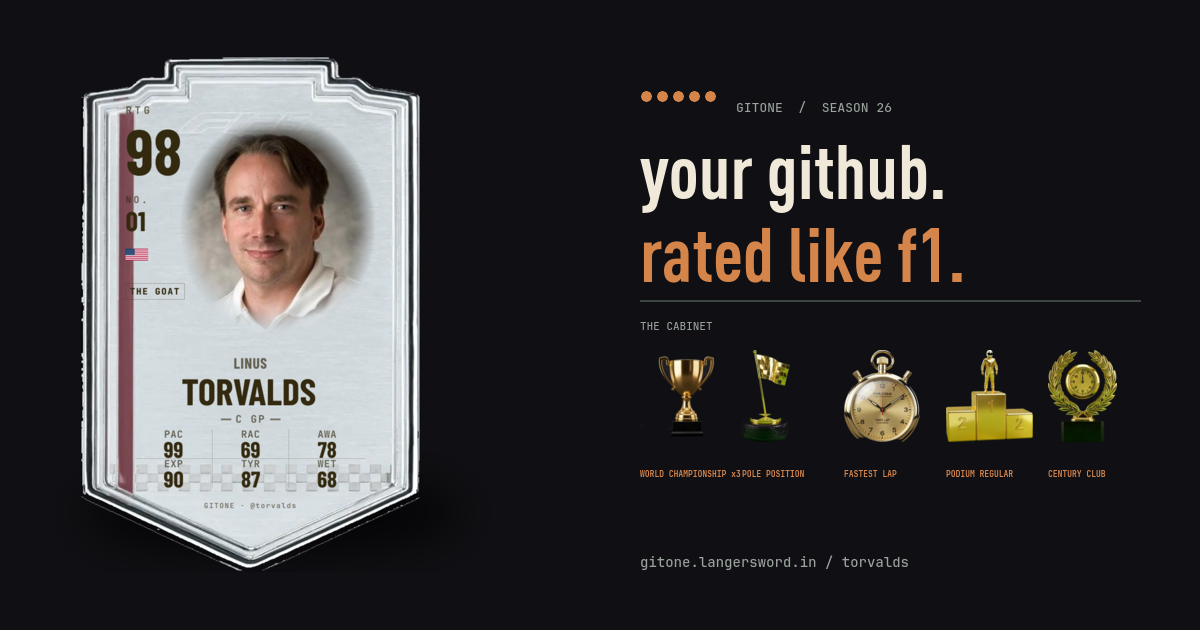
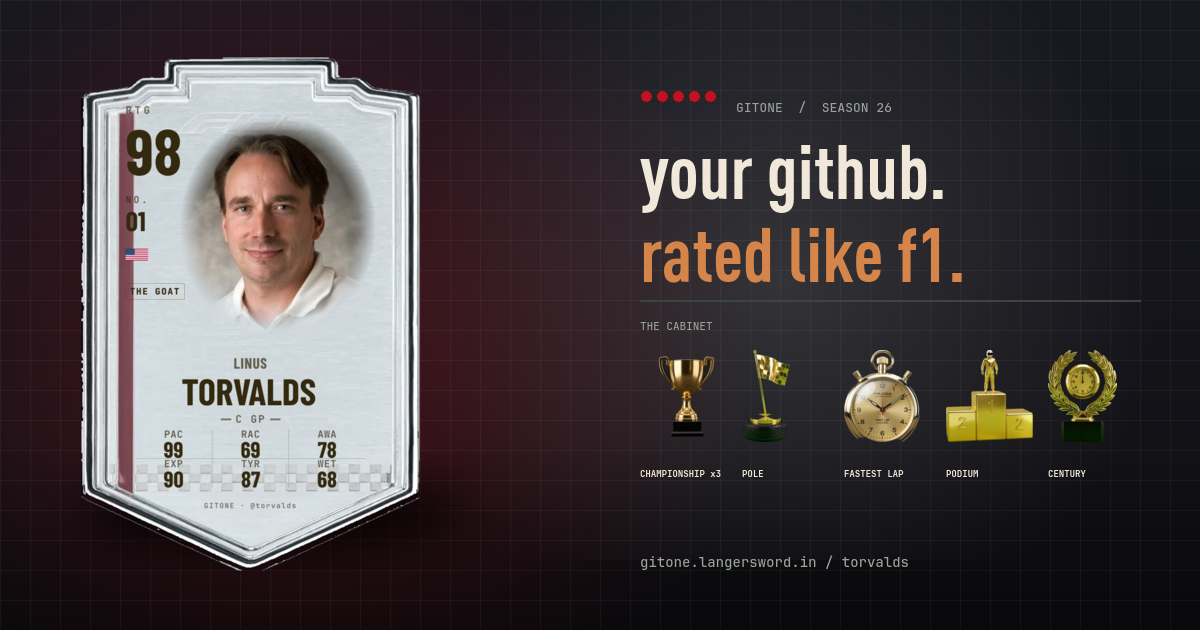
polish(preview): subtler tilt, race cues, landing field, telemetry contrast
Reduce teaser tilt, remove the red dot row over the VS, add track-curb accents and a checkered strip. Root unfurl uses the landing page's grade/grid/floor glow. Duplicate telemetry colours are darkened for distinction. Bump cache keys.

diff --git a/lib/og/renderBattle.tsx b/lib/og/renderBattle.tsx
@@ -249,6 +249,13 @@ export async function renderBattleImage(a: Card, b: Card, teaser = false): Promi
         {teaser && (
           <div style={{ position: "absolute", left: 120, top: 250, width: 960, height: 2, display: "flex", backgroundImage: "linear-gradient(90deg, transparent, rgba(193,18,31,0.4), transparent)" }} />
         )}
+        {teaser && (
+          <>
+            <div style={{ position: "absolute", left: 120, top: 96, width: 3, height: 430, display: "flex", backgroundImage: "linear-gradient(180deg, transparent, rgba(193,18,31,0.5), transparent)" }} />
+            <div style={{ position: "absolute", left: W - 123, top: 96, width: 3, height: 430, display: "flex", backgroundImage: "linear-gradient(180deg, transparent, rgba(193,18,31,0.5), transparent)" }} />
+            <div style={{ position: "absolute", left: 60, top: 574, width: 1080, height: 8, display: "flex", backgroundImage: "repeating-linear-gradient(90deg, rgba(240,232,216,0.5) 0px, rgba(240,232,216,0.5) 18px, transparent 18px, transparent 36px)" }} />
+          </>
+        )}
         <div style={{ position: "absolute", left: 0, top: 44, width: W, display: "flex", alignItems: "center", justifyContent: "center", gap: 12 }}>
           {[0, 1, 2, 3, 4].map((i) => (
             <div key={i} style={{ display: "flex", width: 7, height: 7, borderRadius: 999, background: teaser ? "#c1121f" : "#d6854a" }} />
@@ -258,19 +265,12 @@ export async function renderBattleImage(a: Card, b: Card, teaser = false): Promi
           </div>
         </div>
 
-        <DriverSide card={a} plateSrc={aPlate} avatar={aAvatar} left={teaser ? 290 : leftX} winner={winnerCard === a} angle={teaser ? 10 : 0} />
-        <DriverSide card={b} plateSrc={bPlate} avatar={bAvatar} left={teaser ? W - 290 - sideW : rightX} winner={winnerCard === b} angle={teaser ? -10 : 0} />
+        <DriverSide card={a} plateSrc={aPlate} avatar={aAvatar} left={teaser ? 290 : leftX} winner={winnerCard === a} angle={teaser ? 5 : 0} />
+        <DriverSide card={b} plateSrc={bPlate} avatar={bAvatar} left={teaser ? W - 290 - sideW : rightX} winner={winnerCard === b} angle={teaser ? -5 : 0} />
         {!teaser && <SectorBoard duel={duel} aColor={a.constructor.color} bColor={b.constructor.color} teaser={false} />}
 
         {/* the VS is the single focal object, like the reference broadcast graphic */}
         <div style={{ position: "absolute", left: W / 2 - 180, top: teaser ? 280 : 132, width: 360, display: "flex", flexDirection: "column", alignItems: "center" }}>
-          {teaser && (
-            <div style={{ display: "flex", gap: 10, marginBottom: 8 }}>
-              {[0, 1, 2, 3, 4].map((i) => (
-                <div key={i} style={{ display: "flex", width: 10, height: 10, borderRadius: 999, background: "#c1121f", boxShadow: "0 0 12px rgba(193,18,31,0.6)" }} />
-              ))}
-            </div>
-          )}
           <div style={{ display: "flex", position: "relative", width: 360, height: 150, alignItems: "center", justifyContent: "center" }}>
             <div style={{ position: "absolute", left: 140, top: 14, display: "flex", fontSize: 150, fontWeight: 900, fontStyle: "italic", color: "rgba(214,133,74,0.24)" }}>VS</div>
             <div style={{ position: "absolute", left: 132, top: 7, display: "flex", fontSize: 150, fontWeight: 900, fontStyle: "italic", color: "rgba(240,232,216,0.38)" }}>VS</div>

diff --git a/components/LapTelemetry.tsx b/components/LapTelemetry.tsx
@@ -51,8 +51,16 @@ function TraceLine({ t, color }: { t: Trace; color: string }) {
   );
 }
 
+function darken(hex: string) {
+  const h = hex.replace("#", "");
+  const n = parseInt(h.length === 3 ? h.split("").map((c) => c + c).join("") : h, 16);
+  const f = (v: number) => Math.round(v * 0.55).toString(16).padStart(2, "0");
+  return `#${f((n >> 16) & 255)}${f((n >> 8) & 255)}${f(n & 255)}`;
+}
+
 export function LapTelemetry({ a, b, accentA, accentB }: { a: Card; b?: Card; accentA: string; accentB?: string }) {
   const compare = !!b && !!accentB;
+  const secondColor = accentB && accentB.toLowerCase() === accentA.toLowerCase() ? darken(accentB) : accentB;
   return (
     <div className="w-full rounded-[14px] border px-4 py-3.5" style={{ borderColor: "var(--line)", background: "rgba(255,255,255,0.02)" }}>
       <div className="mono mb-3 flex items-center justify-between text-[10px] font-bold tracking-[0.18em]" style={{ color: "var(--dim)" }}>
@@ -67,8 +75,8 @@ export function LapTelemetry({ a, b, accentA, accentB }: { a: Card; b?: Card; ac
               <span aria-hidden className="inline-block h-[2px] w-4" style={{ background: accentA }} />
               {a.login.toUpperCase()}
             </span>
-            <span className="flex items-center gap-1.5" style={{ color: accentB! }}>
-              <span aria-hidden className="inline-block h-[2px] w-4" style={{ background: accentB }} />
+            <span className="flex items-center gap-1.5" style={{ color: secondColor }}>
+              <span aria-hidden className="inline-block h-[2px] w-4" style={{ background: secondColor }} />
               {b.login.toUpperCase()}
             </span>
             <span style={{ color: "var(--faint)" }}>FAINT DROP = BRAKE</span>
@@ -76,7 +84,7 @@ export function LapTelemetry({ a, b, accentA, accentB }: { a: Card; b?: Card; ac
           <svg viewBox="0 0 600 110" preserveAspectRatio="none" className="h-[110px] w-full" role="img" aria-label={`${a.name} versus ${b.name} stat-derived performance overlay`}>
             <Grid />
             <TraceLine t={trace(a)} color={accentA} />
-            <TraceLine t={trace(b)} color={accentB!} />
+            <TraceLine t={trace(b)} color={secondColor!} />
           </svg>
         </>
       ) : (

diff --git a/app/[username]/vs/[opponent]/opengraph-image.tsx b/app/[username]/vs/[opponent]/opengraph-image.tsx
@@ -13,7 +13,7 @@ export const contentType = "image/png";
 
 export default async function Image({ params }: { params: Promise<{ username: string; opponent: string }> }) {
   const { username, opponent } = await params;
-  return cachedPng(`poster-teaser:v37:${username.toLowerCase()}/${opponent.toLowerCase()}`, async () => {
+  return cachedPng(`poster-teaser:v38:${username.toLowerCase()}/${opponent.toLowerCase()}`, async () => {
     try {
       const [a, b] = await Promise.all([scoutCard(username), scoutCard(opponent)]);
       return await renderBattleImage(a, b, true);

diff --git a/app/api/battle-image/[username]/[opponent]/route.tsx b/app/api/battle-image/[username]/[opponent]/route.tsx
@@ -22,5 +22,5 @@ export async function GET(req: Request, { params }: { params: Promise<{ username
   // Warmers and design verification always want the real render.
   if (process.env.GITONE_FORCE_RENDER === "1" && new URL(req.url).searchParams.has("force")) return render();
 
-  return cachedPng(`poster:v30:${username.toLowerCase()}/${opponent.toLowerCase()}`, render);
+  return cachedPng(`poster:v31:${username.toLowerCase()}/${opponent.toLowerCase()}`, render);
 }
